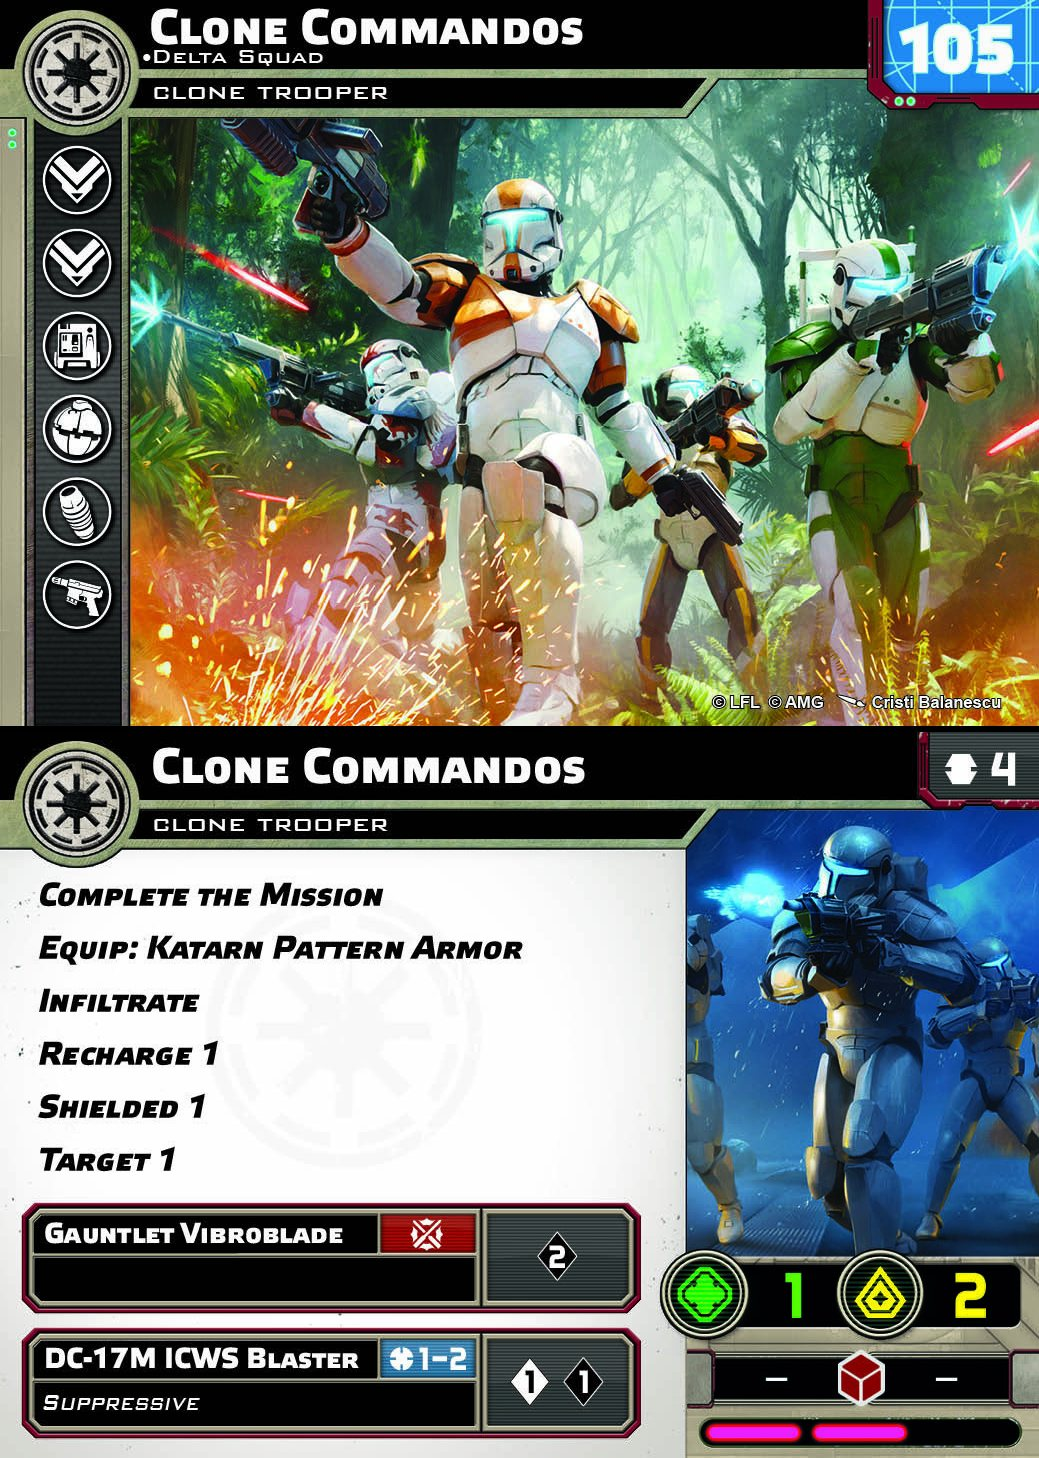
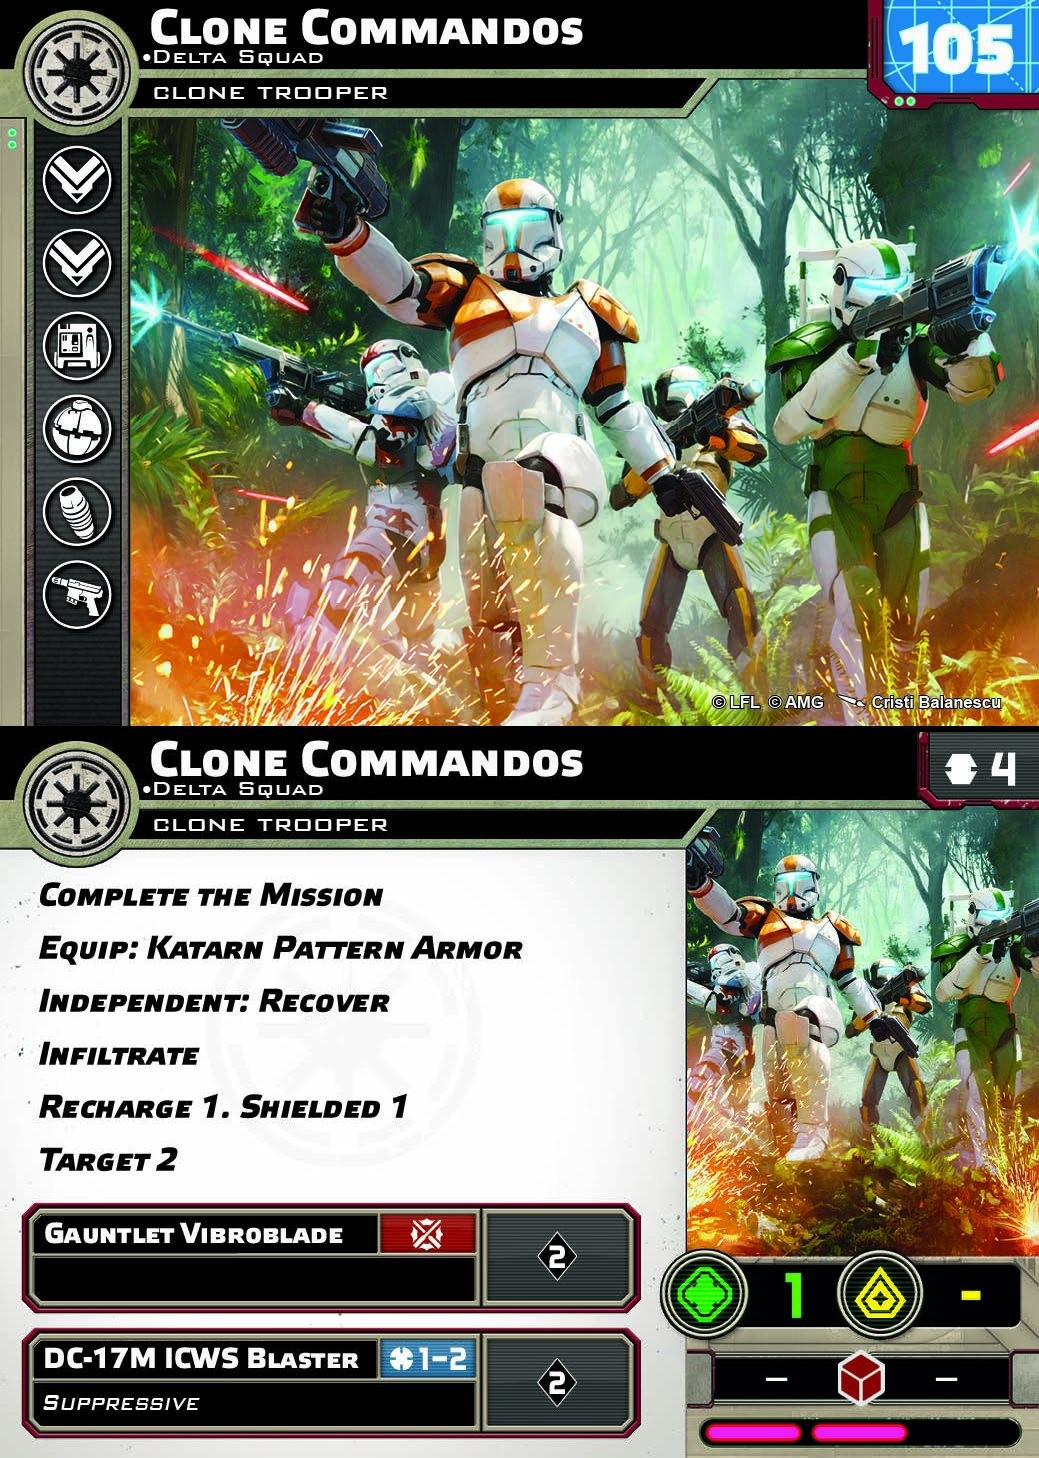
Legion: correct unit points and card images against the wiki
Matched every unit in the catalog one for one against its page on the
Star Wars: Legion fandom wiki.

- catalog-overrides.json: 67 unit point values corrected to the wiki's
  current cost (39 were the 50-point placeholder). General Veers and the
  E-Web keep the value printed on our own card art, which disagrees
  with the wiki.
- C-3PO (Golden God) now shows the Golden God card instead of the
  Human Cyborg Relations C-3PO.
- Clone Commandos and Clone Commandos (Delta Squad) had each other's
  card backs; swapped them back.
- New card images built from the wiki's front and back scans for units
  that had none or the wrong one: Imperial Officer, Rebel Officer,
  Rebel Commandos Strike Team, Chewbacca (Let the Wookiee Win),
  Imperial Special Forces, Scout Troopers Strike Team, ARC Troopers
  Strike Team, BX-series Droid Commandos Strike Team, Droidekas.

Claude-Session: https://claude.ai/code/session_01Mkq2Gg1nunFdwTGFjXGtwA

diff --git a/src/lib/cardLookup.ts b/src/lib/cardLookup.ts
@@ -114,9 +114,10 @@ const UNIT_CARD_OVERRIDES: Record<string, string | null> = {
   "imperials-ig-11-nurse-droid": "cards/mercenary/unit/ig-11.jpg",
   "imperials-boba-fett-infamous-bounty-hunter": "cards/mercenary/unit/boba-fett-bounty-hunter.jpg",
   "imperials-bossk-trandoshan-terror": "cards/mercenary/unit/bossk.jpg",
-  // Imperials still without a paired card:
-  "imperials-imperial-special-forces": null,  // regular Special Forces front not detected
-  "imperials-scout-troopers-strike-team": null,
+  // Cards rebuilt from the Star Wars: Legion wiki (no usable card in the PDFs):
+  "imperials-imperial-officer": "cards/imperials/unit/imperial-officer.jpg",
+  "imperials-imperial-special-forces": "cards/imperials/unit/imperial-special-forces.jpg",
+  "imperials-scout-troopers-strike-team": "cards/imperials/unit/scout-troopers-strike-team.jpg",
 
   // ============= REBELS (re-paired by repair_faction_pairings.py) =============
   "rebels-mark-ii-medium-blaster-trooper": "cards/rebels/unit/mark-ii-medium-blaster-trooper.jpg",
@@ -134,7 +135,7 @@ const UNIT_CARD_OVERRIDES: Record<string, string | null> = {
   "rebels-tauntaun-riders": "cards/rebels/unit/tauntaun-riders.jpg",
   "rebels-t-47-airspeeder": "cards/rebels/unit/t-47-airspeeder.jpg",
   "rebels-x-34-landspeeder": "cards/rebels/unit/x-34-landspeeder.jpg",
-  "rebels-c-3po-golden-god": "cards/rebels/unit/c-3po.jpg",
+  "rebels-c-3po-golden-god": "cards/mercenary/unit/e-c-3po.jpg",
   "rebels-leia-organa": "cards/rebels/unit/leia-organa.jpg",
   "rebels-han-solo": "cards/rebels/unit/han-solo.jpg",
   "rebels-luke-skywalker-hero-of-the-rebellion": "cards/rebels/unit/luke-skywalker-hero.jpg",
@@ -155,11 +156,12 @@ const UNIT_CARD_OVERRIDES: Record<string, string | null> = {
   "rebels-wicket-hero-of-bright-tree": "cards/mercenary/unit/wicket.jpg",
   "rebels-boba-fett-daimyo-of-mos-espa": "cards/mercenary/unit/boba-fett.jpg",
   "rebels-ig-11-nurse-droid": "cards/mercenary/unit/ig-11.jpg",
+  // Cards rebuilt from the Star Wars: Legion wiki:
+  "rebels-chewbacca-let-the-wookiee-win": "cards/rebels/unit/chewbacca-let-the-wookiee-win.jpg",
+  "rebels-rebel-commandos-strike-team": "cards/rebels/unit/rebel-commandos-strike-team.jpg",
+  "rebels-rebel-officer": "cards/rebels/unit/rebel-officer.jpg",
   // Rebels with no source card:
-  "rebels-chewbacca-let-the-wookiee-win": null,
-  "rebels-rebel-commandos-strike-team": null,
   "rebels-rebel-agent": null,
-  "rebels-rebel-officer": null,
 
   // ============= SEPARATISTS (re-paired by repair_faction_pairings.py) =============
   "separatists-b1-battle-droids": "cards/separatists/unit/b1-battle-droids.jpg",
@@ -184,11 +186,12 @@ const UNIT_CARD_OVERRIDES: Record<string, string | null> = {
   "separatists-asajj-ventress-sith-assassin": "cards/separatists/unit/asajj-ventress.jpg",
   "separatists-sun-fac": "cards/separatists/unit/sun-fac.jpg",
   "separatists-bossk-trandoshan-terror": "cards/mercenary/unit/bossk.jpg",
+  // Cards rebuilt from the Star Wars: Legion wiki:
+  "separatists-droidekas": "cards/separatists/unit/droidekas.jpg",
+  "separatists-bx-series-droid-commandos-strike-team": "cards/separatists/unit/bx-series-droid-commandos-strike-team.jpg",
   // Separatists with no source card:
   "separatists-aqua-droids": null,
   "separatists-lm-432-crab-droid": null,
-  "separatists-droidekas": null,
-  "separatists-bx-series-droid-commandos-strike-team": null,
   "separatists-super-tactical-command-droid": null,
   "separatists-super-tactical-command-droid-operative": null,
 
@@ -215,9 +218,10 @@ const UNIT_CARD_OVERRIDES: Record<string, string | null> = {
   "republic-clone-commander-cody": "cards/republic/unit/clone-commander-cody.jpg",
   "republic-chewbacca-republic": "cards/republic/unit/chewbacca.jpg",
   "republic-padme-amidala-spirited-senator": "cards/republic/unit/padme-amidala.jpg",
+  // Cards rebuilt from the Star Wars: Legion wiki:
+  "republic-arc-troopers-strike-team": "cards/republic/unit/arc-troopers-strike-team.jpg",
   // Republic with no source card:
   "republic-arf-troopers": null,
-  "republic-arc-troopers-strike-team": null,
   "republic-clone-trooper-marksmen": null,
   "republic-jedi-knight": null,
   "republic-jedi-knight-general": null,
